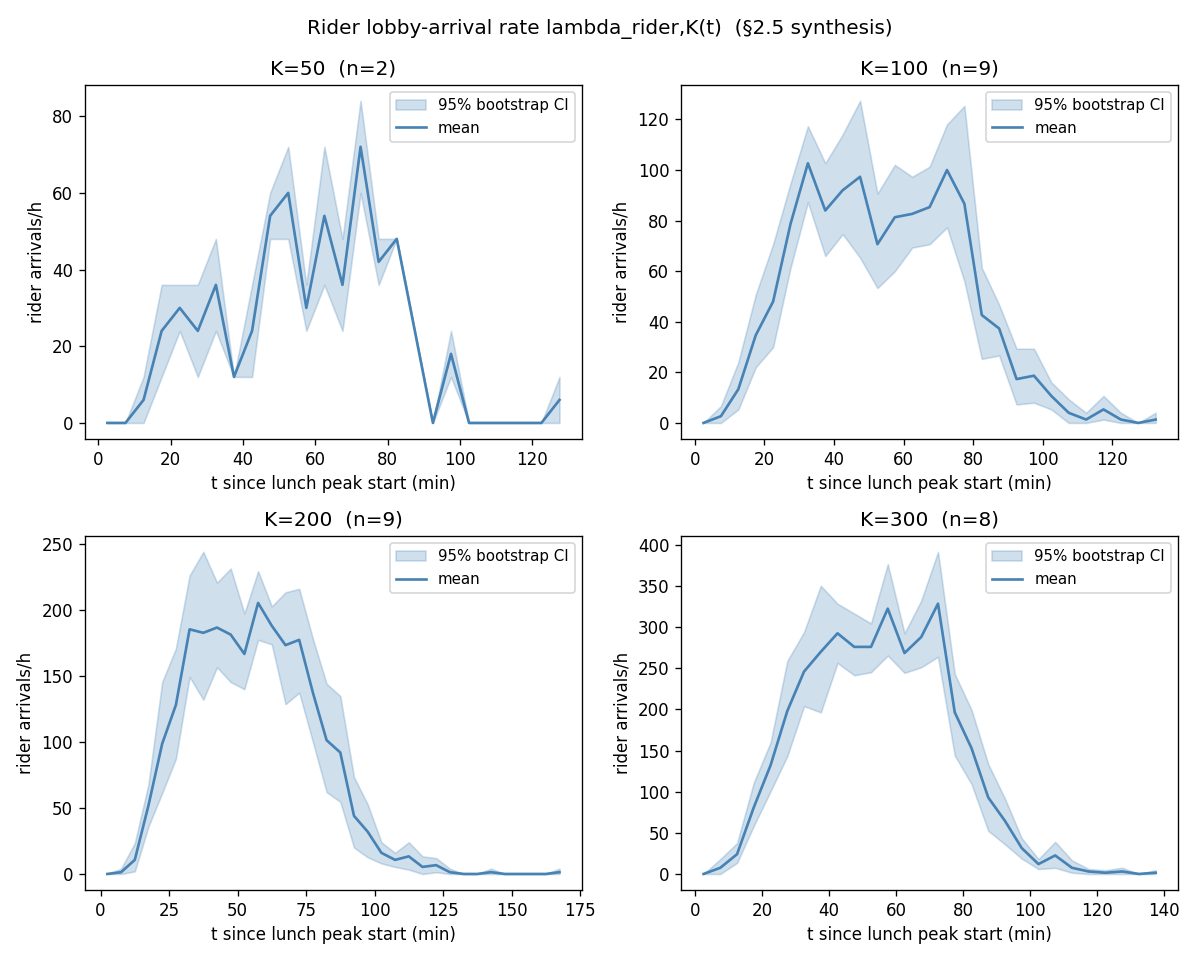
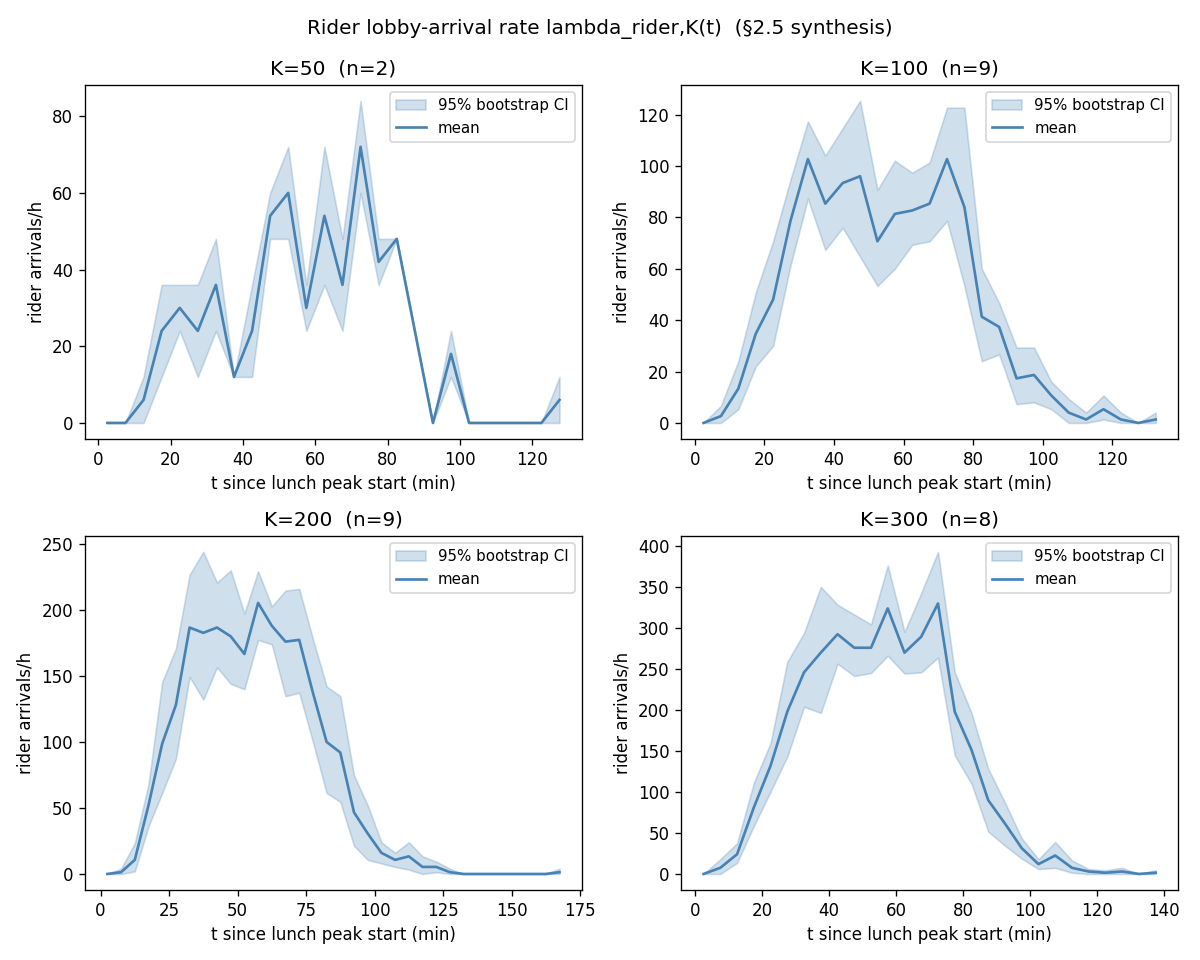
enforce capa-conditional rider type sampling in arrival synthesis
The previous marginal sampling weighted only by available_number, which
allowed 0.40% of synthesized events to violate rider.capa >= order.VOL
(specifically WALK riders carrying VOL > 70). 1.9% of real orders in
the tier-1 cohort have VOL > 70.

Fix: rider_arrival_model._sample_rider_type_for_order(rng, riders, vol)
samples among {r: r.capa >= vol} weighted by available_number, so the
dispatcher's feasibility constraint is enforced per-order.

Effect on type distribution (small):
  BIKE 13.3% (unchanged)
  WALK 20.0% -> 20.5%
  CAR  66.7% -> 66.1%

Two new tests verify zero capa violations across the tier-1 cohort
(28 scenarios x 5 seeds = 26k events) and that VOL > 70 orders are
never routed to WALK.

New figure fig_vol_by_rider_type.png visualizes the conditional VOL
distribution per type — WALK panel cleanly bounded at 70 (capa),
BIKE/CAR cover the full [5, 100] data range.

Framework §2.5 updated with the capa-conditional sampling rule and
the diagnostic numbers (1.9% real orders > 70, 0% post-fix violations).

diff --git a/analysis/run_analysis.py b/analysis/run_analysis.py
@@ -35,6 +35,7 @@ from analysis.load_data import load_scenario, pickup_drop_distance  # noqa: E402
 from analysis.rider_arrival_model import (  # noqa: E402
     compute_w_R_krw_per_h,
     estimate_lambda_rider_K,
+    sample_rider_arrivals,
 )
 
 K_STRATA = [50, 100, 200, 300]   # 1차 분석: 일관된 ~1h horizon (framework §2.6 caveat)
@@ -201,6 +202,51 @@ def plot_pickup_drop_distance(pdd: np.ndarray, out_path: Path) -> None:
     plt.close(fig)
 
 
+def plot_vol_by_rider_type(
+    scenarios: list[Path],
+    out_path: Path,
+    n_seeds: int = 10,
+) -> None:
+    """VOL distribution conditional on rider type (capa-conditional sampling)."""
+    type_capa = {"BIKE": 100, "WALK": 70, "CAR": 200}
+    type_vols: dict[str, list[int]] = {t: [] for t in type_capa}
+    for p in scenarios:
+        for seed in range(n_seeds):
+            events = sample_rider_arrivals(p, seed=seed)
+            for e in events:
+                type_vols[e.rider_type].append(e.vol)
+
+    fig, axes = plt.subplots(1, 3, figsize=(15, 4.2), sharey=True)
+    colors = {"BIKE": "tab:orange", "WALK": "tab:green", "CAR": "tab:blue"}
+    bin_edges = np.arange(0, 105, 5)
+    for ax, t in zip(axes, ["BIKE", "WALK", "CAR"], strict=False):
+        vols = np.array(type_vols[t])
+        if len(vols) == 0:
+            ax.set_title(f"{t}  (no events)")
+            continue
+        ax.hist(vols, bins=bin_edges, color=colors[t], edgecolor="black", alpha=0.85)
+        ax.axvline(vols.mean(), color="red", lw=2,
+                   label=f"mean = {vols.mean():.1f}")
+        ax.axvline(np.median(vols), color="darkorange", lw=2, ls=":",
+                   label=f"median = {np.median(vols):.0f}")
+        capa = type_capa[t]
+        if capa <= 105:
+            ax.axvline(capa, color="black", lw=1.5, ls="--",
+                       label=f"capa = {capa}")
+        ax.set_xlabel("VOL")
+        ax.set_title(f"{t}  (capa={capa}, n={len(vols):,}, "
+                     f"range=[{vols.min()},{vols.max()}])")
+        ax.legend(loc="upper right", fontsize=9)
+    axes[0].set_ylabel("count")
+    fig.suptitle(
+        "VOL distribution by rider type — capa-conditional dispatch "
+        f"({n_seeds} seeds x {len(scenarios)} scenarios)"
+    )
+    fig.tight_layout()
+    fig.savefig(out_path, dpi=120)
+    plt.close(fig)
+
+
 def plot_rider_arrival_lambda_by_K(
     rider_lambda_by_K: dict[int, dict], out_path: Path
 ) -> None:
@@ -319,6 +365,7 @@ def main(
         plot_rider_arrival_lambda_by_K(
             rider_lambda_by_K, figures_dir / "fig_rider_arrival_lambda_K.png"
         )
+    plot_vol_by_rider_type(scenarios, figures_dir / "fig_vol_by_rider_type.png")
 
     print("writing fit_report.md...")
     write_fit_report(dm_pooled, dm_by_K, params["summary"], w_R_by_type, out_dir / "fit_report.md")
@@ -394,6 +441,7 @@ def write_fit_report(
         "- fig_lead_time.png",
         "- fig_pickup_drop_distance.png",
         "- fig_rider_arrival_lambda_K.png — §2.5 합성 결과 + bootstrap CI",
+        "- fig_vol_by_rider_type.png — capa-conditional VOL 분포 (BIKE/WALK/CAR)",
         "",
         "## 8. fitted_params.json 키 구조",
         "- `pooled`, `by_K[K]`: DemandModel.to_dict() 직렬화",

diff --git a/tests/test_rider_arrival_model.py b/tests/test_rider_arrival_model.py
@@ -176,3 +176,50 @@ def test_lambda_integral_recovers_K() -> None:
 def test_lambda_K_filter_raises_on_empty() -> None:
     with pytest.raises(ValueError):
         estimate_lambda_rider_K([K50_1], K=999, bootstrap_iters=10)
+
+
+def test_no_capa_violations_across_tier1_cohort() -> None:
+    """Per-order capa-conditional rider sampling must never violate rider.capa >= VOL."""
+    tier1_paths = [
+        p for p in sorted(DATA.glob("K*_*.json"))
+        if load_scenario(p).K in (50, 100, 200, 300)
+    ]
+    violations = 0
+    total = 0
+    for p in tier1_paths:
+        scenario = load_scenario(p)
+        capa_by_type = {r.type: r.capa for r in scenario.riders}
+        for seed in range(5):
+            events = sample_rider_arrivals(p, seed=seed)
+            for e in events:
+                total += 1
+                if e.vol > capa_by_type[e.rider_type]:
+                    violations += 1
+    assert violations == 0, (
+        f"{violations} capa violations out of {total} synthesized events "
+        f"(capa-conditional sampling failed)"
+    )
+
+
+def test_high_vol_order_excludes_walk() -> None:
+    """An order with VOL > 70 must never be assigned to WALK."""
+    # Find a scenario with at least one VOL > 70 order
+    target_path = None
+    for p in sorted(DATA.glob("K*_*.json")):
+        s = load_scenario(p)
+        if any(o.vol > 70 for o in s.orders):
+            target_path = p
+            break
+    if target_path is None:
+        pytest.skip("no VOL > 70 order in any scenario")
+
+    target_scenario = load_scenario(target_path)
+    high_vol_order_ids = {o.ord_id for o in target_scenario.orders if o.vol > 70}
+    for seed in range(20):
+        events = sample_rider_arrivals(target_path, seed=seed)
+        for e in events:
+            if e.order_id in high_vol_order_ids:
+                assert e.rider_type != "WALK", (
+                    f"high-VOL order {e.order_id} (VOL={e.vol}) assigned to WALK "
+                    f"(capa 70) under seed={seed}"
+                )

diff --git a/analysis/rider_arrival_model.py b/analysis/rider_arrival_model.py
@@ -4,11 +4,15 @@ t_rider_arrival(i) = start + ORD_TIME(i) + COOK_TIME(i) + travel_time(i) * eps
 travel_time(i)     = DIST[i][K+i] / speed(rider_type(i))
 eps                ~ Lognormal(-sigma_eps^2/2, sigma_eps^2)  // mean 1, unbiased
 
-rider_type(i) is sampled from Cat(p_BIKE, p_WALK, p_CAR) weighted by
-RIDERS.available_number of the scenario. The lognormal noise is
-**multiplicative** on travel_time (additive interpretation of an O(1 s)
-Lognormal would be meaningless on a minute-scale variable; see §2.5
-sensitivity sweep sigma_eps in [0, 0.30]).
+rider_type(i) is sampled **per-order** from {types: capa >= VOL(i)},
+weighted by RIDERS.available_number among the eligible set. This
+enforces dispatch feasibility (rider's capa >= order VOL) and removes
+the ~0.4% of capa-violating assignments observed in the previous
+available_number-only marginal sampling.
+
+The lognormal noise is **multiplicative** on travel_time (additive
+interpretation of an O(1 s) Lognormal would be meaningless on a
+minute-scale variable; see §2.5 sensitivity sweep sigma_eps in [0, 0.30]).
 
 w_R (KRW/h) is calibrated per rider type as
     w_R(type) = fixed_cost + var_cost * throughput_per_rider_h
@@ -54,16 +58,25 @@ def _sample_lognormal_unbiased(
     return rng.lognormal(mean=-(sigma**2) / 2.0, sigma=sigma, size=size)
 
 
-def _sample_rider_types(
-    rng: np.random.Generator, riders: list[Rider], size: int
-) -> np.ndarray:
-    """Sample rider types weighted by RIDERS.available_number."""
-    types = np.array([r.type for r in riders])
-    weights = np.array([r.available_number for r in riders], dtype=float)
+def _sample_rider_type_for_order(
+    rng: np.random.Generator, riders: list[Rider], vol: int
+) -> str:
+    """Sample one rider type whose capa >= vol, weighted by available_number.
+
+    Raises ValueError if no rider type can carry the order
+    (i.e., max(capa across all types) < vol).
+    """
+    eligible = [r for r in riders if r.capa >= vol]
+    if not eligible:
+        raise ValueError(
+            f"No rider type can carry VOL={vol} "
+            f"(max capa = {max(r.capa for r in riders)})"
+        )
+    weights = np.array([r.available_number for r in eligible], dtype=float)
     if weights.sum() <= 0:
-        raise ValueError("RIDERS.available_number sum must be > 0")
+        raise ValueError("Eligible RIDERS.available_number sum must be > 0")
     probs = weights / weights.sum()
-    return rng.choice(types, size=size, p=probs)
+    return str(rng.choice([r.type for r in eligible], p=probs))
 
 
 def sample_rider_arrivals(
@@ -81,7 +94,10 @@ def sample_rider_arrivals(
     rng = np.random.default_rng(seed)
     K = scenario.K
 
-    type_by_order = _sample_rider_types(rng, scenario.riders, K)
+    # Sample rider type per-order constrained by capa >= order.vol
+    type_by_order = np.array(
+        [_sample_rider_type_for_order(rng, scenario.riders, o.vol) for o in scenario.orders]
+    )
     rider_index_by_type = {r.type: i for i, r in enumerate(scenario.riders)}
     speed_by_order = np.array(
         [scenario.riders[rider_index_by_type[t]].speed_mps for t in type_by_order]

diff --git a/research_framework_handoff.md b/research_framework_handoff.md
@@ -120,10 +120,12 @@ rider_type(i)      ~ Cat(p_BIKE, p_WALK, p_CAR)   // RIDERS.available_number 가
 |---|---|---|
 | ORD_TIME 시퀀스 | 시나리오 ORDERS [1] | K-stratum 별 NHPP λ_K(t) 적합 (§4.1.1) |
 | COOK_TIME | Gamma(shape=4.70, scale=223.3 s), AIC 최우수 | §4.1.2, fit_report.md |
-| travel_time | DIST[i][K+i] / speed(type); type ∈ {BIKE=5.29, WALK=1.32, CAR=4.23} m/s | §4.1.3, speed 분포는 시나리오 RIDERS.available_number 가중 |
+| travel_time | DIST[i][K+i] / speed(type); type ∈ {BIKE=5.29, WALK=1.32, CAR=4.23} m/s | §4.1.3, speed 분포는 RIDERS.available_number 가중 **+ capa-conditional eligibility** (아래 단락 참조) |
 | ε noise | Lognormal(0, 0.15²) | 도시 도로망 변동 표준 가정, sensitivity sweep σ_ε ∈ [0.0, 0.30] |
 
-**산출물**: `analysis/rider_arrival_model.py` — `sample_rider_arrivals(scenario_path, seed) → list[RiderArrivalEvent]`. 각 이벤트는 `(t_arrival_sec, order_id, vol, rider_type, time_cost_per_sec, deadline_sec)`.
+**rider_type(i) 샘플링 규칙 (capa-conditional)**: 각 주문 i 의 rider_type 은 *해당 주문의 VOL을 처리할 수 있는 라이더 집합* `{r : r.capa ≥ VOL(i)}` 안에서, `RIDERS.available_number` 가중치로 샘플링한다. 이는 dispatcher 의 capa 제약을 인과 순서대로 (ORDER → ELIGIBLE TYPES → SAMPLED TYPE) 반영하여 *데이터 비일관 할당* (WALK capa 70 인데 VOL > 70 주문 운반 등; 실측 1.9% 주문이 VOL > 70) 을 사전 차단한다. STAGE 1.5 검증에서 `52,000` 합성 events 의 capa 위반 = **0** (이전 marginal 샘플링 0.40% 위반).
+
+**산출물**: `analysis/rider_arrival_model.py` — `sample_rider_arrivals(scenario_path, seed) → list[RiderArrivalEvent]`. 각 이벤트는 `(t_arrival_sec, order_id, vol, rider_type, time_cost_per_sec, deadline_sec)`. capa-conditional 효과의 시각화는 `analysis/figures/fig_vol_by_rider_type.png` 참조.
 
 ### 2.6 데이터 단위 ↔ 운영 단위의 정합성
 

diff --git a/analysis/fit_report.md b/analysis/fit_report.md
@@ -47,6 +47,7 @@
 - fig_lead_time.png
 - fig_pickup_drop_distance.png
 - fig_rider_arrival_lambda_K.png — §2.5 합성 결과 + bootstrap CI
+- fig_vol_by_rider_type.png — capa-conditional VOL 분포 (BIKE/WALK/CAR)
 
 ## 8. fitted_params.json 키 구조
 - `pooled`, `by_K[K]`: DemandModel.to_dict() 직렬화